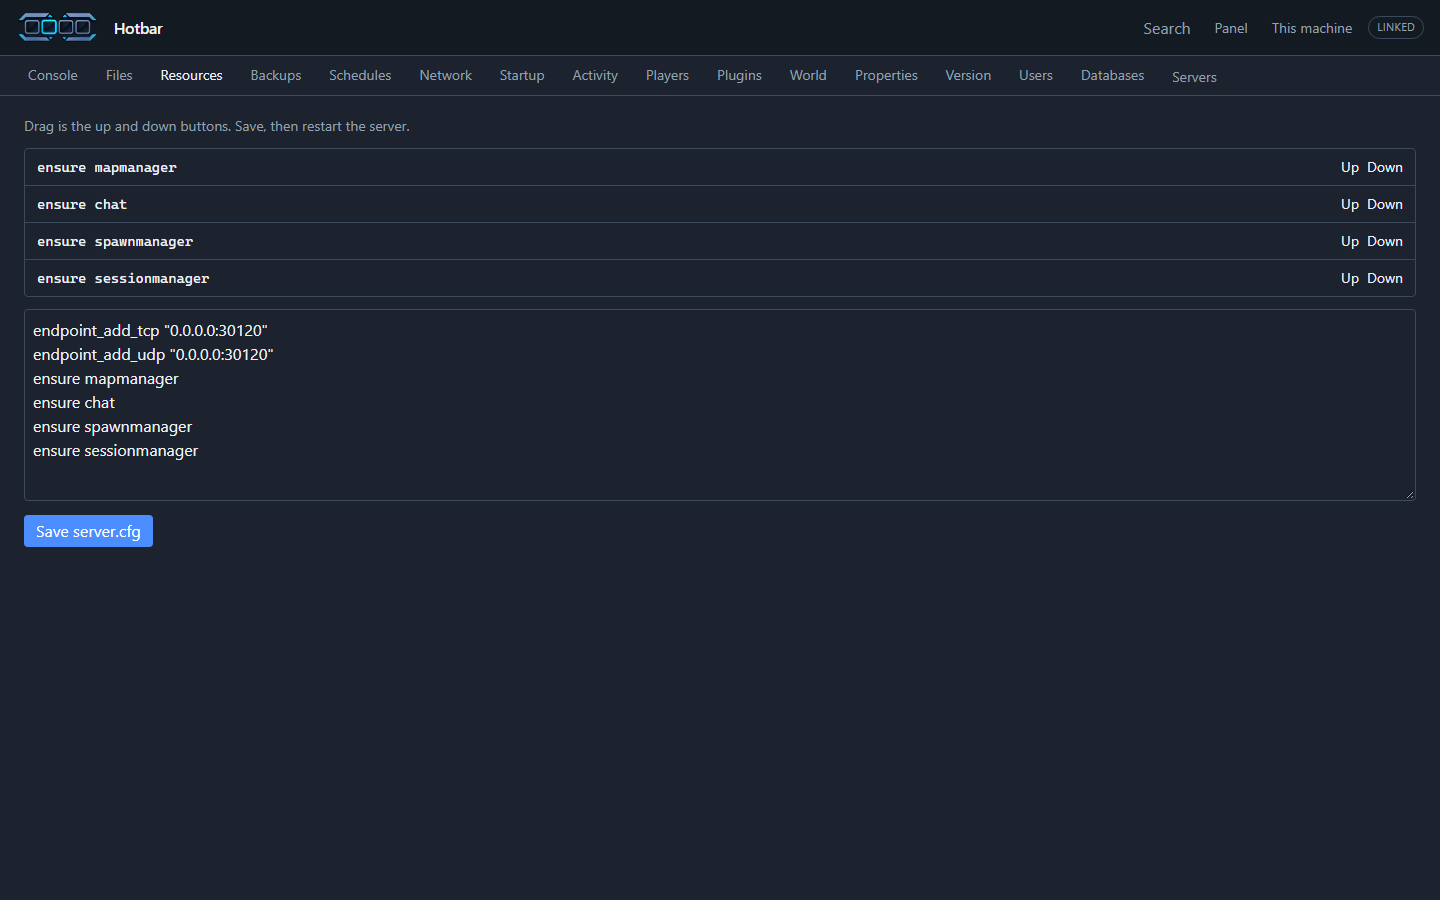
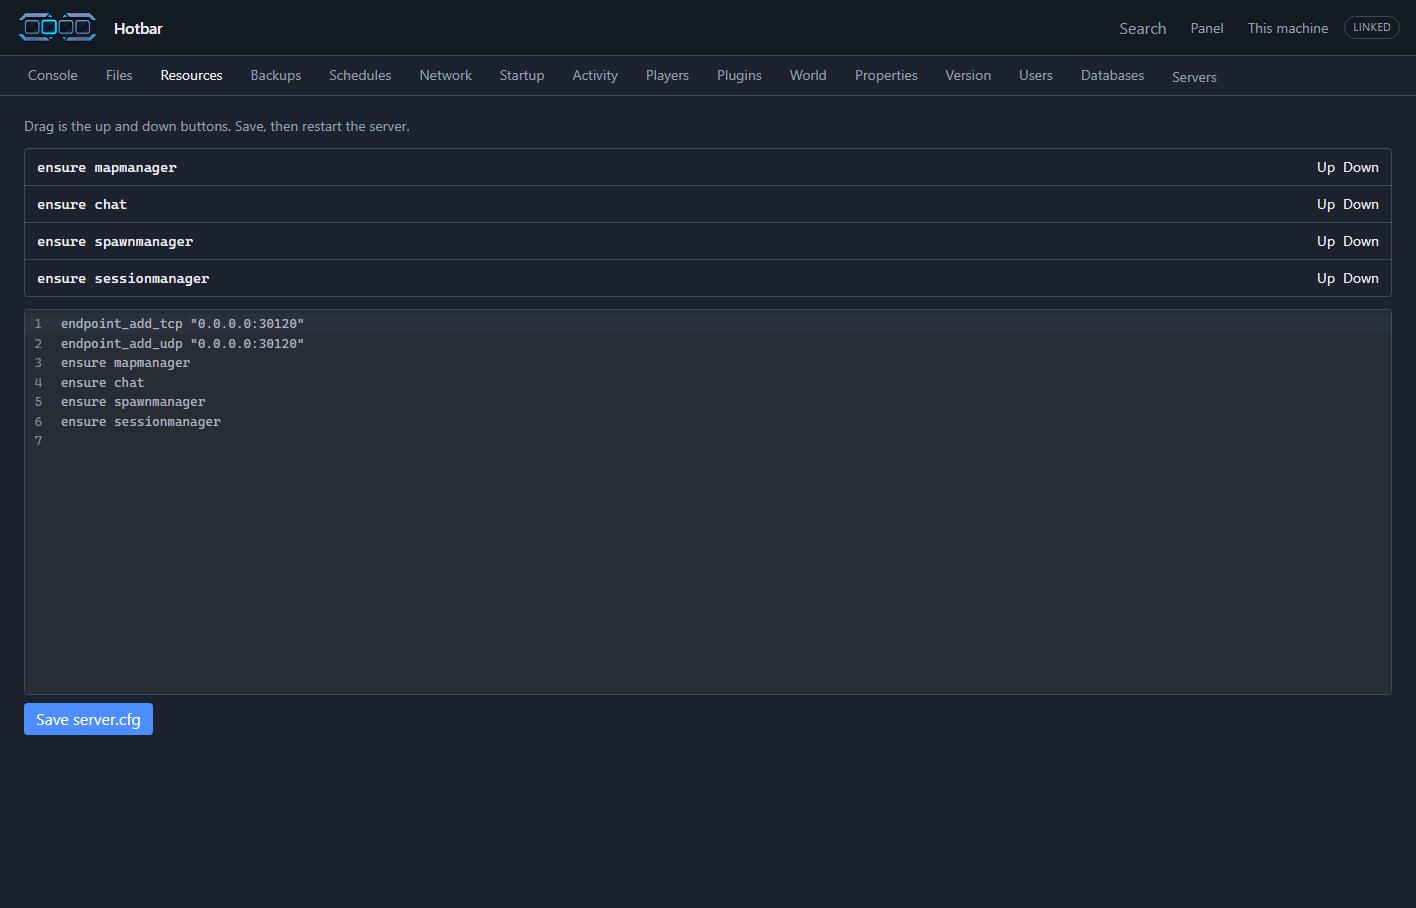
Update README.md for improved clarity on server properties, file management, player management, network settings, startup commands, and FiveM resources. Enhanced descriptions for better user understanding and added context for operations. Updated binary screenshots for visual consistency.

diff --git a/README.md b/README.md
@@ -62,13 +62,13 @@ Live log, command line, power buttons, and CPU, memory, and network charts.
 
 ### Properties
 
-`server.properties` as a form: port, gamemode, difficulty, and the rest.
+The whole `server.properties` file, grouped and searchable. A save writes only the settings you change. Restart the server before players see them, and stop it before changing the port.
 
 ![Properties](docs/screenshots/properties.png)
 
 ### Files
 
-Folders and files for that server. Upload, create a folder, or delete a file.
+Folders and files for that server. Right-click a file, or use More, to rename, copy, or delete it. Text files open in the editor. Ctrl+S saves.
 
 ![Files](docs/screenshots/files.png)
 
@@ -110,7 +110,7 @@ A daily backup, or any start, stop, restart, or console command on a cron.
 
 ### Players
 
-Send a console command such as `list` or `whitelist on`. The server has to be running.
+Operators, the whitelist, and bans, plus who is online when the server is running. Kick, ban, and operator changes apply to that player. The whitelist can be changed while the server is stopped.
 
 ![Players](docs/screenshots/players.png)
 
@@ -134,13 +134,13 @@ Hotbar installs MariaDB on this computer and creates a database, user, and passw
 
 ### Network
 
-The join address, plus SFTP on this computer only. The username is the server id.
+The join address, and whether this computer is accepting that port. SFTP listens on this computer only. The password stays hidden until you show it.
 
 ![Network](docs/screenshots/network.png)
 
 ### Startup
 
-The launch command. Folder paths are hidden. The stop command is `stop`, and Hotbar kills the process if it is still running after 60 seconds.
+Memory, start with Hotbar, restart after a crash, and the stop command. Change memory while the server is stopped. The folder path is hidden.
 
 ![Startup](docs/screenshots/startup.png)
 
@@ -152,7 +152,7 @@ What Hotbar did for this server, including the reads that refresh the list.
 
 ### FiveM resources
 
-Reorder `ensure` lines, then save `server.cfg`.
+Reorder `ensure` lines, then edit `server.cfg` and save it.
 
 ![FiveM resources](docs/screenshots/resources.png)
 
